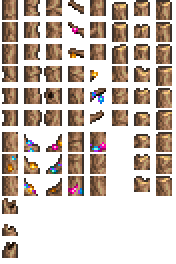
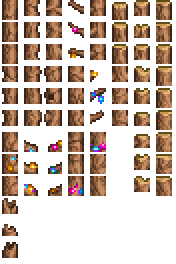
Update Stargrass Tree glowmasks + palette tweaks

diff --git a/Content/Forest/Stargrass/StargrassTreeGlowEffects.cs b/Content/Forest/Stargrass/StargrassTreeGlowEffects.cs
@@ -1,7 +1,7 @@
-using SpiritReforged.Common.TileCommon;
+using SpiritReforged.Common.Misc;
+using SpiritReforged.Common.TileCommon;
 using SpiritReforged.Common.TileCommon.PostDrawTreeHookSystem;
 using SpiritReforged.Common.TileCommon.TileSway;
-using SpiritReforged.Common.Visuals;
 using SpiritReforged.Common.WorldGeneration;
 using SpiritReforged.Content.Forest.Stargrass.Tiles;
 using Terraria.DataStructures;
@@ -54,7 +54,9 @@ internal class StargrassTreeGlowEffects : GlobalTile, IPostDrawTree
 	{
 		Tile tile = Main.tile[i, j];
 		var frame = new Rectangle(tile.TileFrameX, tile.TileFrameY, 16, 16);
-		Color color = Color.White * 0.8f * MathHelper.Lerp(0.2f, 1f, (float)((Math.Sin(NoiseSystem.Perlin(i * 1.2f, j * 0.2f) * 3f + Main.GlobalTimeWrappedHourly * 1.3f) + 1f) * 0.5f));
+
+		double lerp = Math.Sin(NoiseSystem.Perlin(i * 1.2f, j * 0.2f) * 5f + Main.GlobalTimeWrappedHourly) * .25f;
+		Color color = (Color.White * (.3f - (float)lerp)).Additive();
 
 		spriteBatch.Draw(_baseTexture.Value, TileExtensions.DrawPosition(i, j, TileExtensions.TileOffset), frame, color);
 
@@ -82,17 +84,18 @@ internal class StargrassTreeGlowEffects : GlobalTile, IPostDrawTree
 
 			var source = new Rectangle(treeFrame * (topTextureFrameWidth3 + 2), 0, topTextureFrameWidth3, topTextureFrameHeight3);
 			var origin = new Vector2(topTextureFrameWidth3 / 2, topTextureFrameHeight3);
+
 			Main.spriteBatch.Draw(treeTopTexture, drawPos, source, color, rotation * 0.08f, origin, 1f, SpriteEffects.None, 0f);
 		}
-		else if (tile.TileFrameX == 44)
+		else
 		{
 			int _ = 0;
 
-			if (!WorldGen.GetCommonTreeFoliageData(i, j, -1, ref _, ref _, out _, out int _, out int _))
+			if (!WorldGen.GetCommonTreeFoliageData(i, j, -1, ref treeFrame, ref _, out _, out int _, out int _))
 				return;
 
 			Texture2D treeBranchTexture = _branchTexture.Value;
-			Vector2 position = TileExtensions.DrawPosition(i, j, TileExtensions.TileOffset - new Vector2(8, 16));
+			var position = TileExtensions.DrawPosition(i, j, TileExtensions.TileOffset);
 			float rotation = 0f;
 
 			if (tile.WallType <= 0)
@@ -101,30 +104,26 @@ internal class StargrassTreeGlowEffects : GlobalTile, IPostDrawTree
 			if (rotation < 0f)
 				position.X += rotation;
 
-			position.X -= Math.Abs(rotation) * 2f;
-			var source = new Rectangle(42, treeFrame * 42, 40, 40);
-			Main.spriteBatch.Draw(treeBranchTexture, position, source, color, rotation * 0.06f, new Vector2(0f, 30f), 1f, SpriteEffects.None, 0f);
-		}
-		else if (tile.TileFrameX == 66)
-		{
-			int _ = 0;
+			if (tile.TileFrameX == 44)
+			{
+				position.X += Math.Abs(rotation) * 2f;
+				position += new Vector2(16f, 12f);
 
-			if (!WorldGen.GetCommonTreeFoliageData(i, j, -1, ref _, ref _, out _, out int _, out int _))
-				return;
+				var origin = new Vector2(40f, 24f);
+				var source = new Rectangle(0, treeFrame * 42, 40, 40);
 
-			Texture2D treeBranchTexture = _branchTexture.Value;
-			Vector2 position = TileExtensions.DrawPosition(i, j, TileExtensions.TileOffset - new Vector2(8, 16));
-			float rotation = 0f;
+				Main.spriteBatch.Draw(treeBranchTexture, position, source, color, rotation * 0.06f, origin, 1f, SpriteEffects.None, 0f);
+			}
+			else if (tile.TileFrameX == 66)
+			{
+				position.X -= Math.Abs(rotation) * 2f;
+				position += new Vector2(0, 18);
 
-			if (tile.WallType <= 0)
-				rotation = Main.instance.TilesRenderer.GetWindCycle(i, j, TileSwaySystem.Instance.TreeWindCounter);
+				var origin = new Vector2(0f, 30f);
+				var source = new Rectangle(42, treeFrame * 42, 40, 40);
 
-			if (rotation < 0f)
-				position.X += rotation;
-
-			position.X -= Math.Abs(rotation) * 2f;
-			var source = new Rectangle(42, treeFrame * 42, 40, 40);
-			Main.spriteBatch.Draw(treeBranchTexture, position, source, color, rotation * 0.06f, new Vector2(0f, 30f), 1f, SpriteEffects.None, 0f);
+				Main.spriteBatch.Draw(treeBranchTexture, position, source, color, rotation * 0.06f, origin, 1f, SpriteEffects.None, 0f);
+			}
 		}
 	}
 
@@ -133,14 +132,10 @@ internal class StargrassTreeGlowEffects : GlobalTile, IPostDrawTree
 		if (type == TileID.Trees)
 		{
 			while (Main.tile[i, j].TileType == TileID.Trees)
-			{
 				j++;
-			}
 
 			if (Main.tile[i, j].TileType == ModContent.TileType<StargrassTile>())
-			{
 				return true;
-			}
 		}
 
 		return false;

diff --git a/Content/Forest/Stargrass/Tiles/StargrassTile.cs b/Content/Forest/Stargrass/Tiles/StargrassTile.cs
@@ -75,6 +75,18 @@ internal class StargrassTile : ModTile
 		return true;
 	}
 
+	public override bool TileFrame(int i, int j, ref bool resetFrame, ref bool noBreak)
+	{
+		//Surrounded by solid tiles
+		if (WorldGen.SolidOrSlopedTile(i, j - 1) && WorldGen.SolidOrSlopedTile(i, j + 1) && WorldGen.SolidOrSlopedTile(i - 1, j) && WorldGen.SolidOrSlopedTile(i + 1, j))
+		{
+			Main.tile[i, j].TileType = TileID.Grass;
+			return false;
+		}
+
+		return true;
+	}
+
 	public override void RandomUpdate(int i, int j)
 	{
 		if (!Framing.GetTileSafely(i, j - 1).HasTile && Main.rand.NextBool(4))
